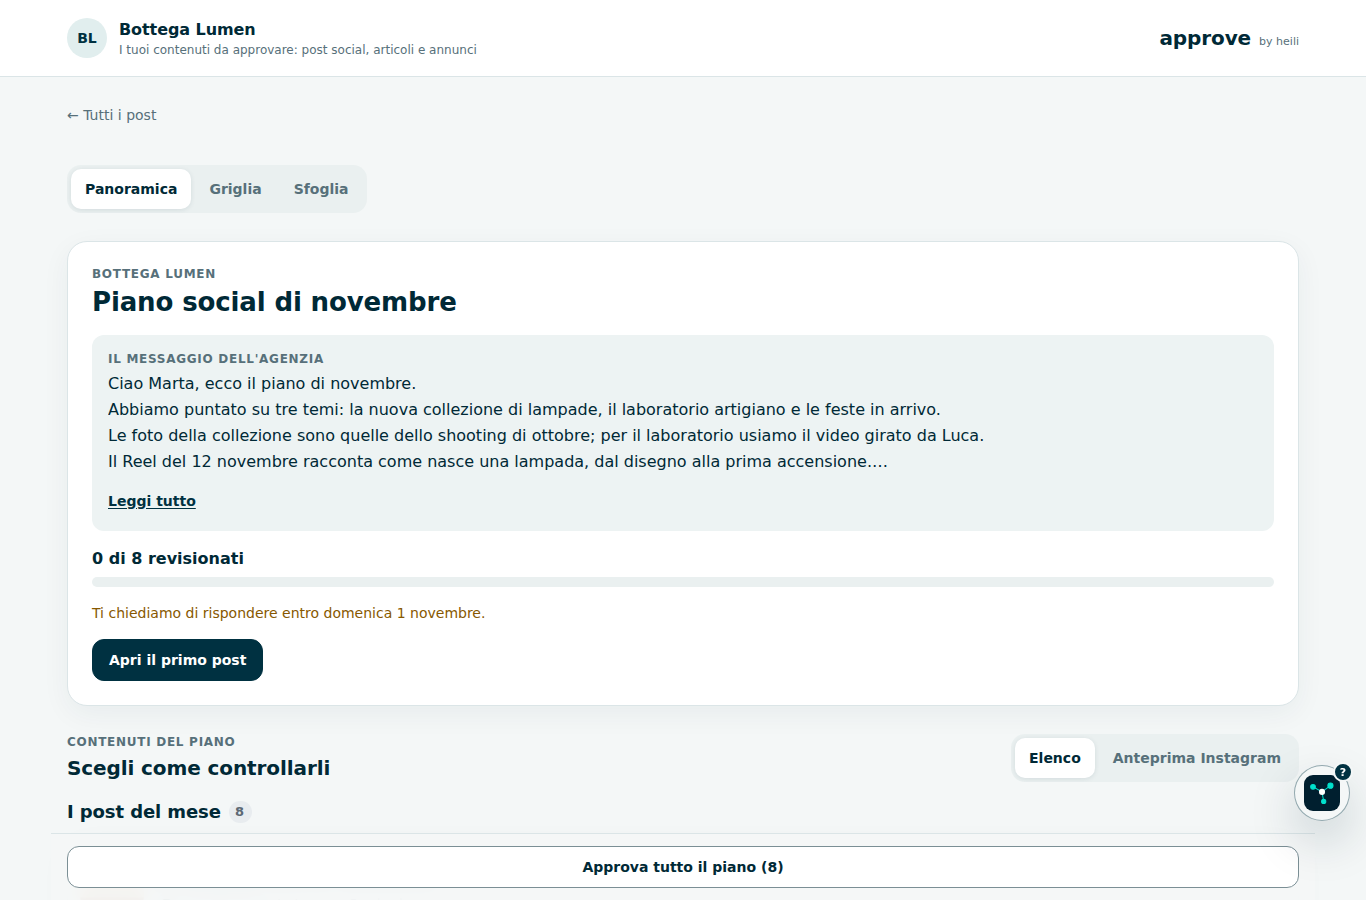
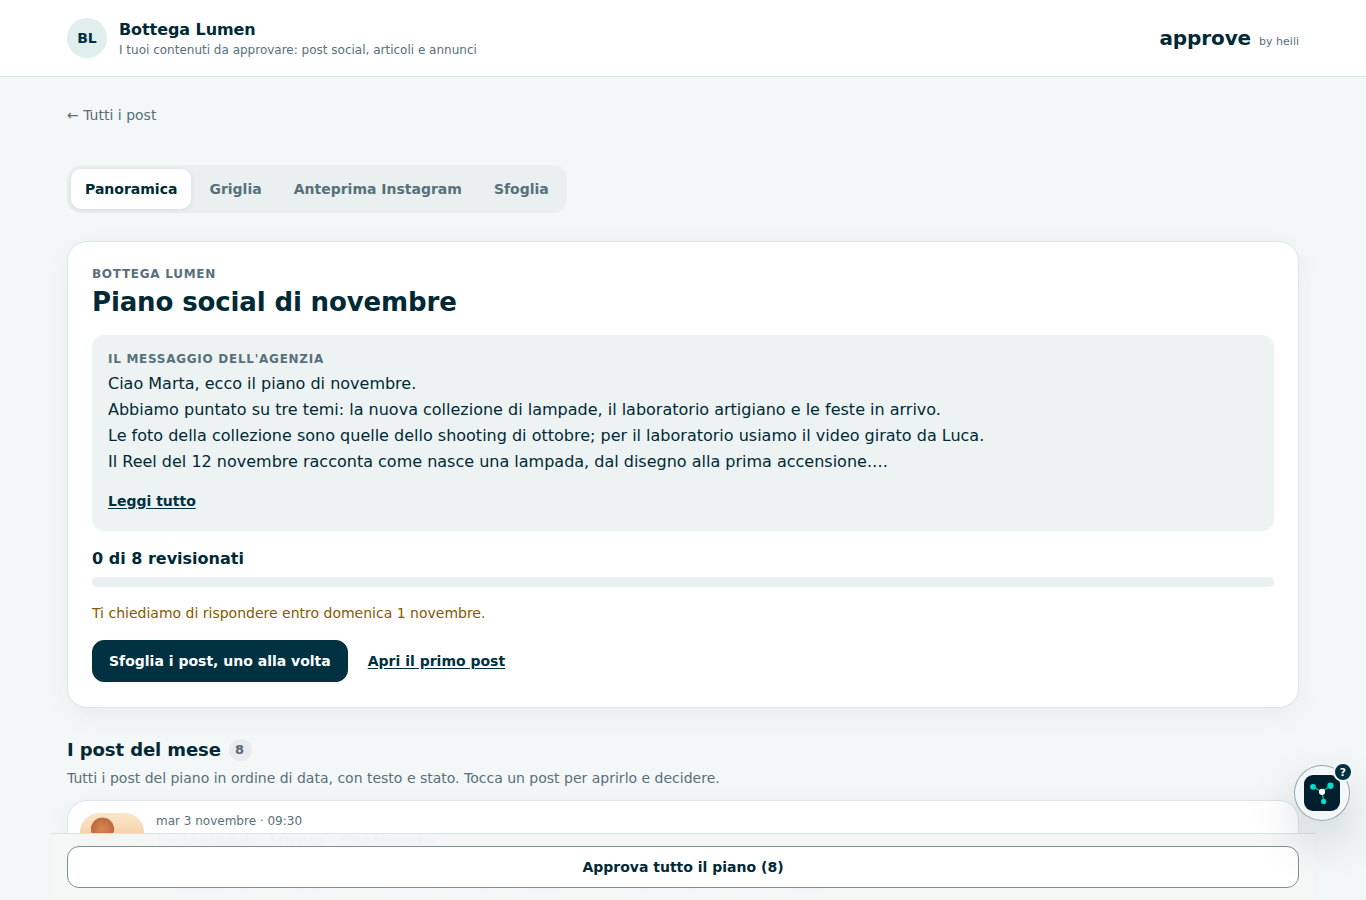
QA-13: one primary invitation in the client's plan
The plan offered several ways to do the same review. Now a single primary
button, on every screen, «Sfoglia i post, uno alla volta»; opening the
first post stays available as a plain link and «Approva tutto il piano»
stays in the sticky bar (no function removed). Together with K-13 the plan
has one level of views (Panoramica · Griglia · Anteprima Instagram ·
Sfoglia) instead of tabs inside tabs.

Claude-Session: https://claude.ai/code/session_014DSQQWw6TyoBXwshraDW4G

diff --git a/heili-approve/components/portal/plan-review.tsx b/heili-approve/components/portal/plan-review.tsx
@@ -49,7 +49,7 @@ export default function PlanReview({
   homeHref: string;
   /** "Panoramica · Griglia · Anteprima Instagram · Sfoglia" switch, under the way back. */
   modeSlot?: ReactNode;
-  /** Phones: «Sfoglia i post, uno alla volta», the way into Sfoglia. */
+  /** «Sfoglia i post, uno alla volta»: the one primary invitation (QA-13). */
   quickReviewSlot?: ReactNode;
 }) {
   const router = useRouter();
@@ -180,14 +180,19 @@ export default function PlanReview({
               : "Hai rivisto tutti i post del piano. Grazie!"}
           </p>
         ) : (
-          <div className="flex flex-col gap-2 sm:flex-row">
-            {/* «Approva tutto il piano» lives in the sticky bar below (QA-15): one invitation, not two. */}
+          // QA-13: one primary invitation, on every screen: «Sfoglia i post, uno alla volta».
+          // Opening the first post stays possible as a plain link; «Approva tutto il piano»
+          // lives in the sticky bar below (QA-15).
+          <div className="flex flex-col gap-1 sm:flex-row sm:items-center sm:gap-5">
             {quickReviewSlot}
             {firstToReview && (
               <Link
                 href={firstToReview.href}
-                // On phones «Sfoglia i post, uno alla volta» is the one primary action.
-                className={`btn btn-primary min-h-12 order-1${quickReviewSlot ? " max-sm:!border-line-strong max-sm:!bg-surface max-sm:!text-foreground" : ""}`}
+                className={
+                  quickReviewSlot
+                    ? "inline-flex min-h-11 items-center justify-center text-sm font-semibold text-accent underline underline-offset-2"
+                    : "btn btn-primary min-h-12"
+                }
               >
                 Apri il primo post
               </Link>

diff --git a/heili-approve/components/portal/month/view-switch.tsx b/heili-approve/components/portal/month/view-switch.tsx
@@ -48,14 +48,14 @@ export default function ViewSwitch({
   );
 }
 
-/** Phones: the way into the fast review, prominent. */
+/**
+ * The one primary invitation of a month or plan (QA-13), on every screen: the
+ * way into Sfoglia. Full width on phones.
+ */
 export function QuickReviewLink({ basePath, label = "Sfoglia i post, uno alla volta" }: { basePath: string; label?: string }) {
-  // The wrapper hides it from tablets up: `.btn` sets its own display, so it cannot carry `sm:hidden`.
   return (
-    <div className="sm:hidden">
-      <Link href={viewPath(basePath, "sfoglia")} prefetch={false} className="btn btn-primary min-h-12 w-full" data-testid="quick-review">
-        {label}
-      </Link>
-    </div>
+    <Link href={viewPath(basePath, "sfoglia")} prefetch={false} className="btn btn-primary min-h-12 w-full sm:w-auto" data-testid="quick-review">
+      {label}
+    </Link>
   );
 }

diff --git a/heili-approve/components/portal/month/month-frame.tsx b/heili-approve/components/portal/month/month-frame.tsx
@@ -28,7 +28,7 @@ export default function MonthFrame({
   heading: string;
   progress: PlanProgress;
   switcher: ReactNode;
-  /** The phone shortcut into Sfoglia (Griglia only). */
+  /** The way into Sfoglia (Griglia and Anteprima Instagram). */
   quick?: ReactNode;
   compact?: boolean;
   children: ReactNode;
